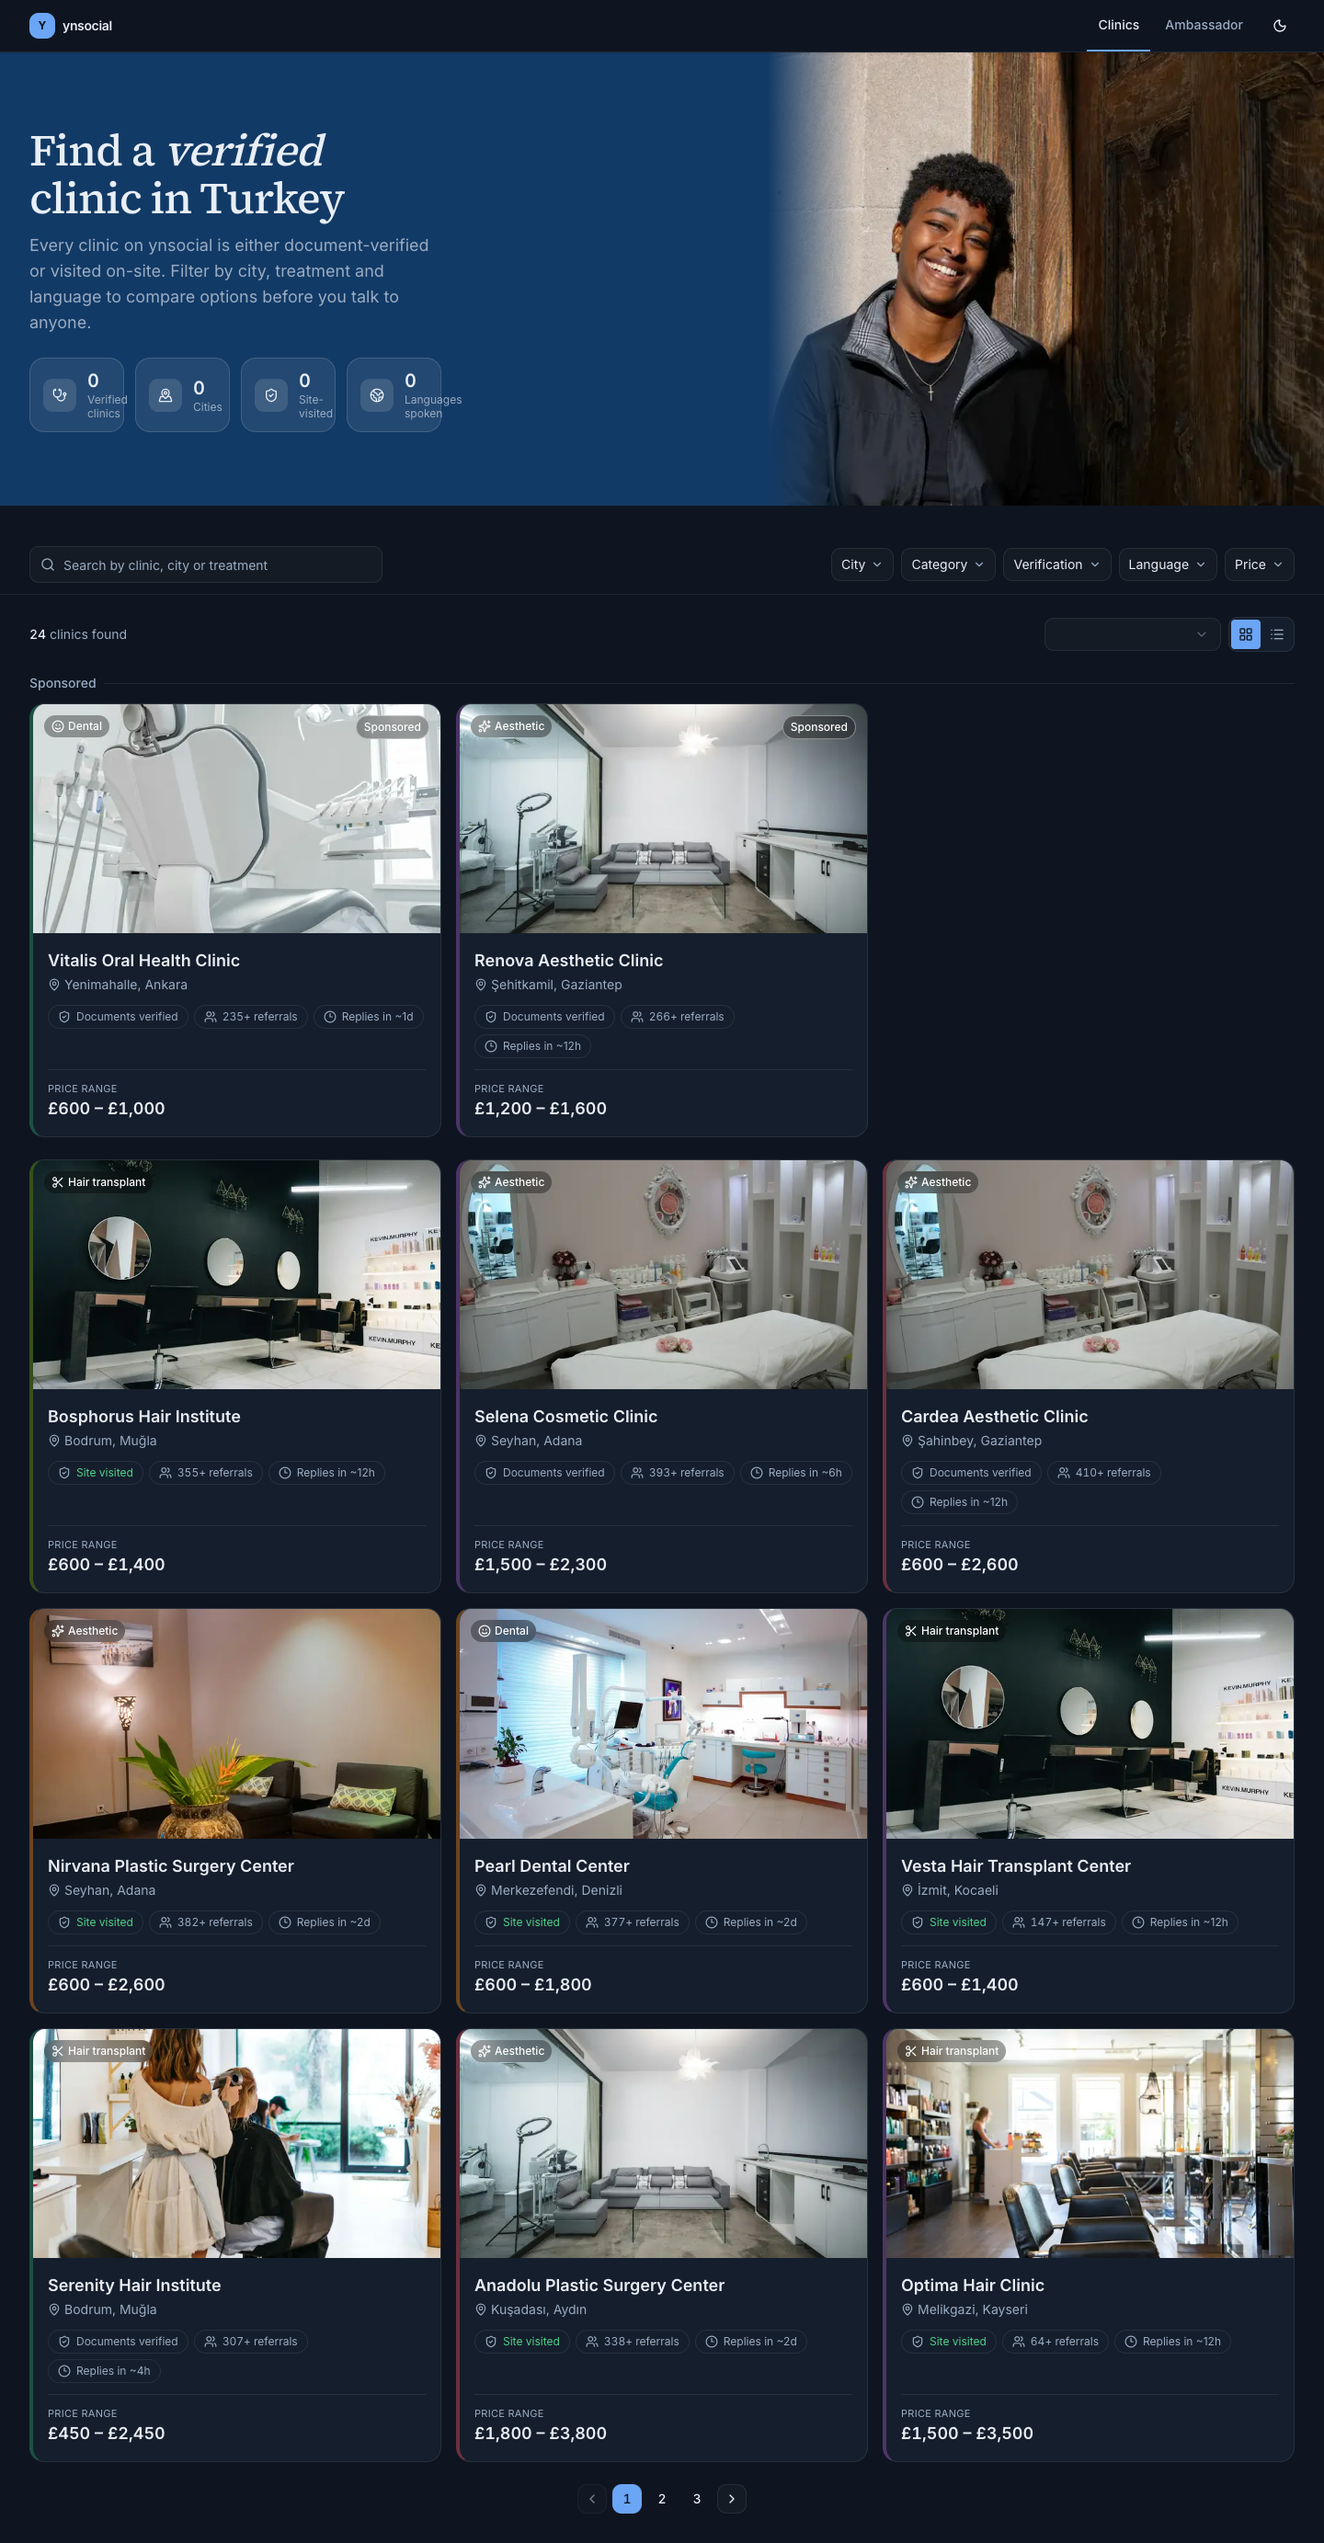
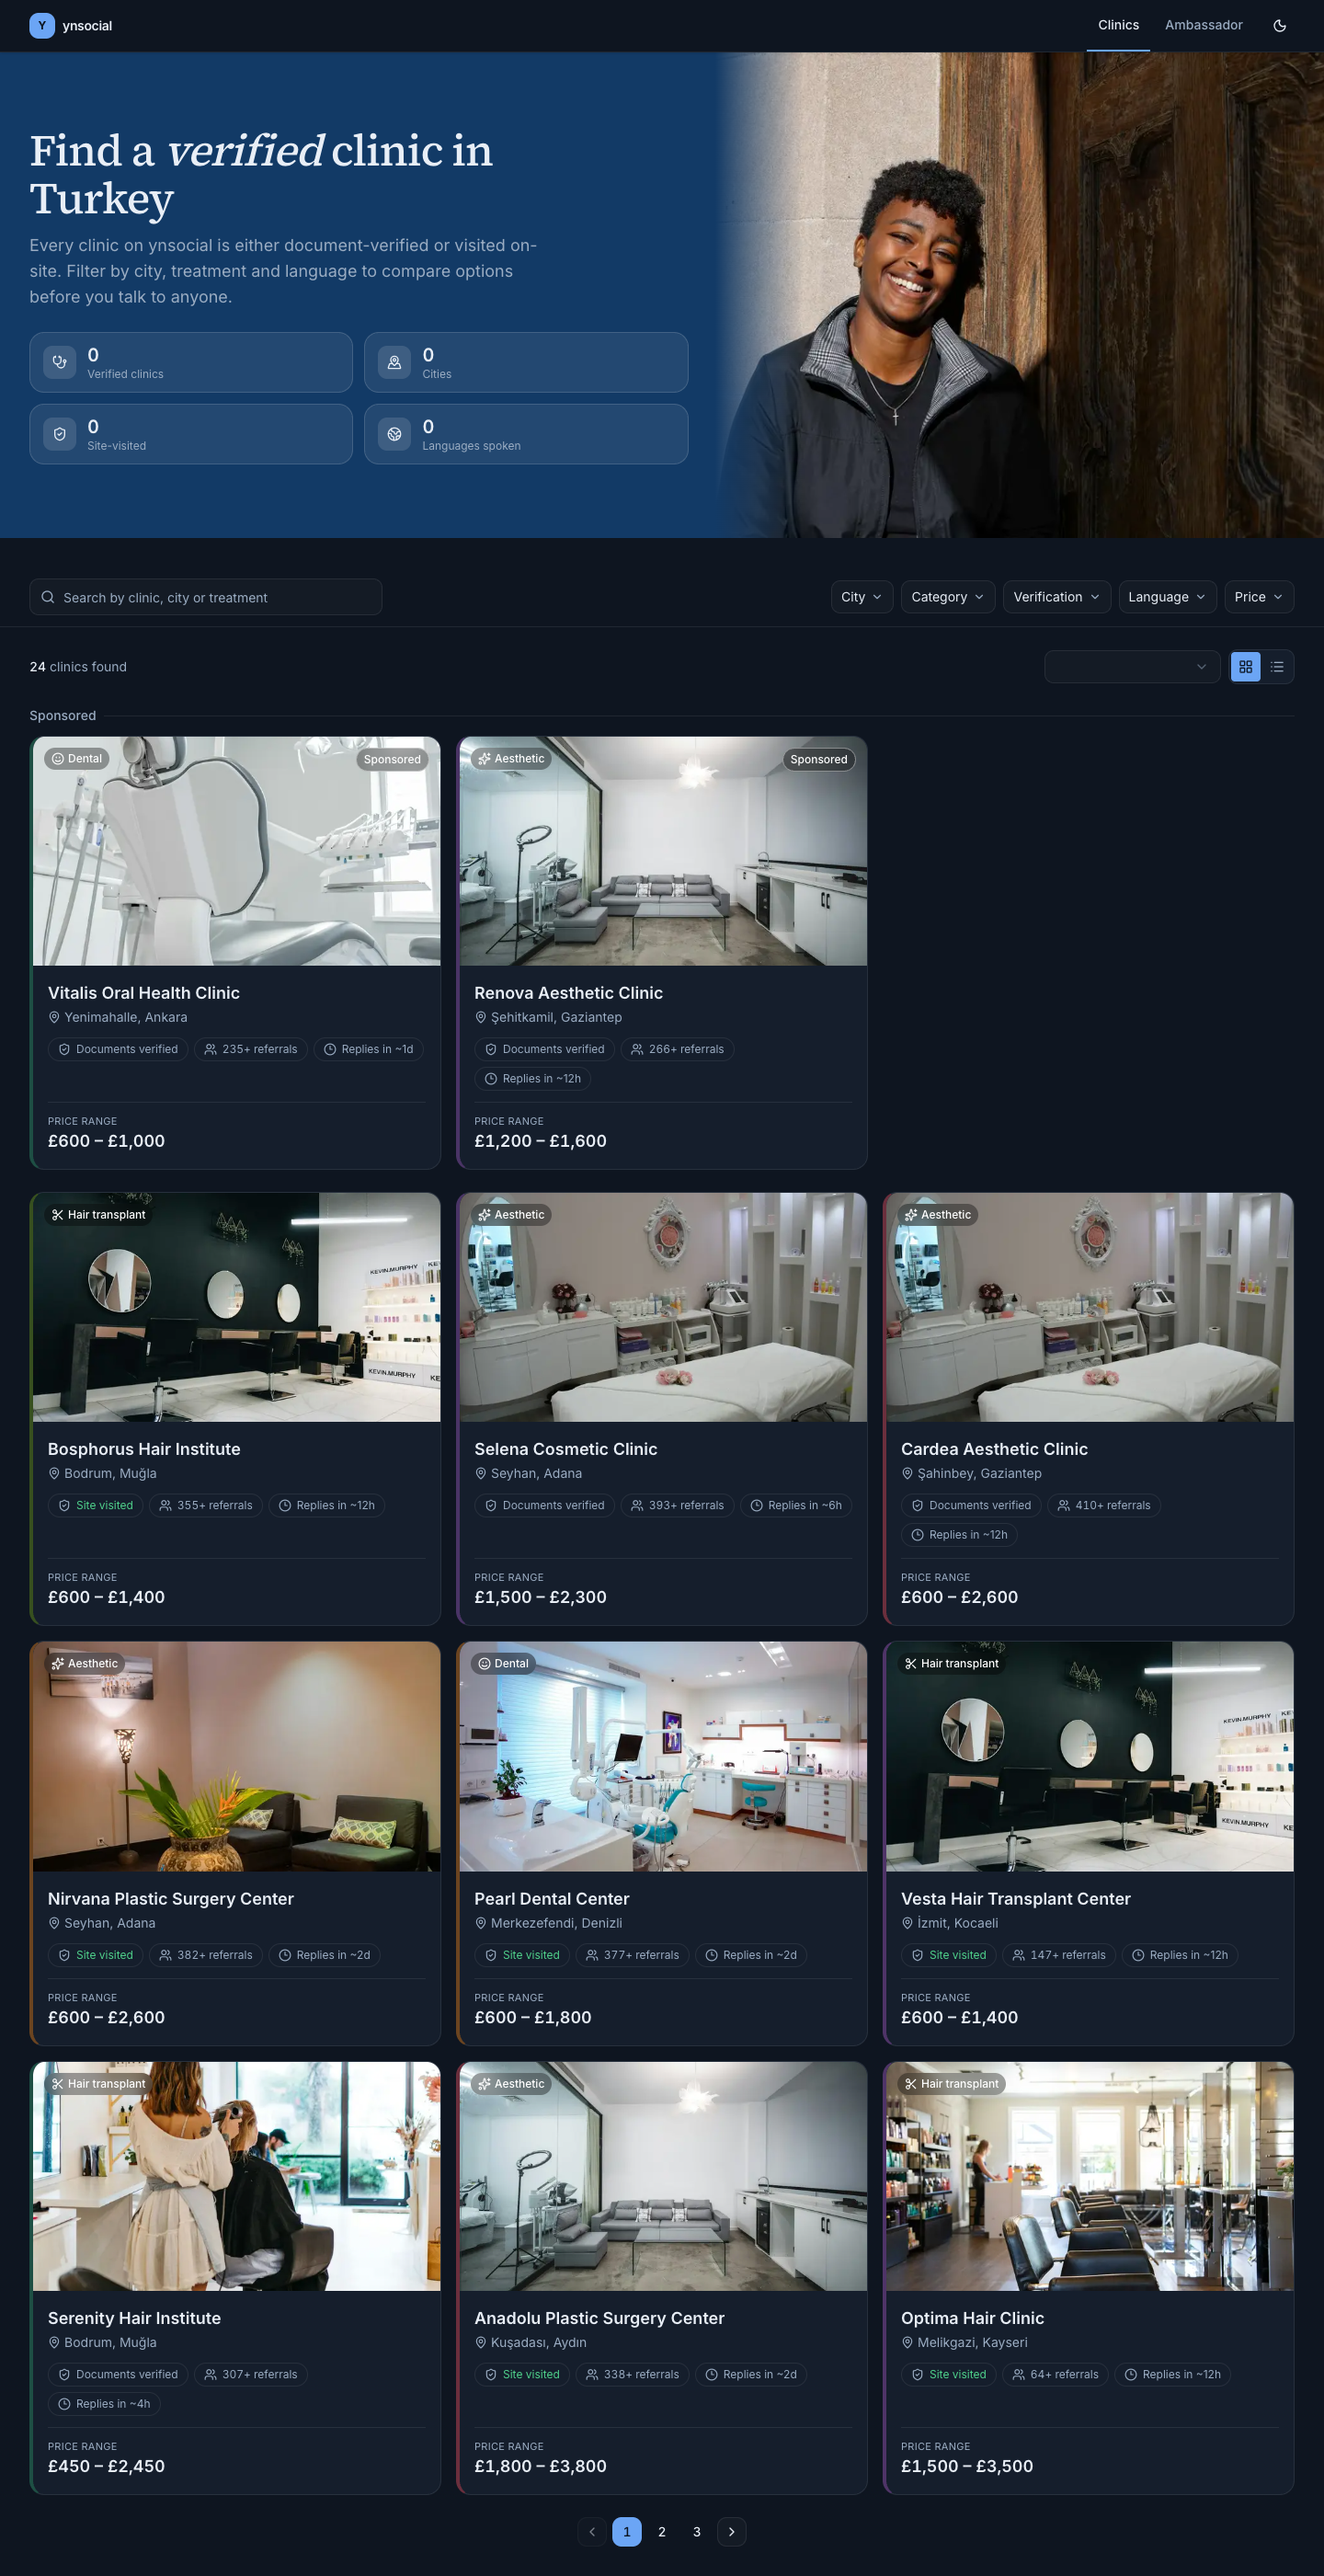
Fix cramped stat tiles and enlarge the hero photo to 46vw
The photo grew to 46% of viewport width on request; the copy column had
a fixed max-w-md next to it, squeezing the 4-tile stat grid into ~450px
regardless of screen size and wrapping half the labels onto two lines.
Root cause wasn't the exact width available — any 4-across row sharing
space with a large photo eventually runs out of room. Stats are now a
fixed 2x2 grid on all screen sizes (not 2x2-mobile/4-across-desktop), so
each tile keeps roughly double the width no matter how the split lands.

Changed region(s): [[0.0, 0.0, 1.0, 0.9638], [0.25, 0.0311, 0.3125, 0.0622], [0.3438, 0.0311, 0.375, 0.0622]]

diff --git a/src/app/clinics/page.tsx b/src/app/clinics/page.tsx
@@ -22,22 +22,28 @@ export default async function ClinicsPage() {
     <main className="flex w-full flex-col">
       <div className="hero-panel relative overflow-hidden">
         {/* Photo bleeds to the true edge of the section on desktop — a
-            floating rounded card here read as a widget, not a photo. */}
-        <div className="absolute inset-y-0 right-0 hidden w-[42%] lg:block">
+            floating rounded card here read as a widget, not a photo.
+            Sized off the viewport (not the 1440px content container) so
+            it keeps reaching the real edge on ultra-wide screens too. */}
+        <div className="absolute inset-y-0 right-0 hidden w-[46vw] lg:block">
           <Image
             src="/images/hero-clinics.jpg"
             alt=""
             fill
             priority
-            sizes="42vw"
+            sizes="46vw"
             className="object-cover"
           />
           <div className="hero-photo-fade absolute inset-y-0 left-0 w-24" aria-hidden="true" />
         </div>
 
-        <div className="relative mx-auto w-full page-container px-4 pb-8 pt-12 sm:px-5 sm:pb-10 lg:px-8 lg:py-20">
-          <div className="flex max-w-xl flex-col gap-6 lg:max-w-md">
-            <div className="space-y-3">
+        {/* The text column reserves space matching the photo's own width
+            (not a fixed max-width) — at wide viewports a fixed cap here
+            was squeezing the 4-tile stat grid into ~450px and forcing
+            every label to wrap onto two lines. */}
+        <div className="relative mx-auto w-full page-container px-4 pb-8 pt-12 sm:px-5 sm:pb-10 lg:py-20 lg:pl-8 lg:pr-[48vw]">
+          <div className="flex flex-col gap-6">
+            <div className="max-w-xl space-y-3">
               <h1 className="font-serif text-4xl font-medium tracking-tight text-hero-text sm:text-5xl">
                 Find a <em className="font-serif italic text-hero-text">verified</em> clinic in
                 Turkey

diff --git a/src/components/clinics/trust-stats.tsx b/src/components/clinics/trust-stats.tsx
@@ -9,7 +9,12 @@ import type { Clinic } from "@/types/clinic"
  *  hero's solid-color background (translucent white tiles), since that's
  *  the only place this renders. Each stat is its own bordered unit rather
  *  than a row split by dividers, so it holds up at any width instead of
- *  wrapping into an orphaned, half-separated line. */
+ *  wrapping into an orphaned, half-separated line.
+ *
+ *  Always a 2×2 grid, even on desktop: the hero's copy column shares its
+ *  width with a large photo, so a 4-across row never has enough room for
+ *  "Verified clinics" or "Languages spoken" to sit on one line — 2×2 gives
+ *  every tile roughly double the width regardless of how that split lands. */
 export function TrustStats({ clinics }: { clinics: Clinic[] }) {
   const cities = new Set(clinics.map((c) => c.city)).size
   const languages = new Set(clinics.flatMap((c) => c.languages)).size
@@ -23,7 +28,7 @@ export function TrustStats({ clinics }: { clinics: Clinic[] }) {
   ]
 
   return (
-    <dl className="grid grid-cols-2 gap-3 sm:grid-cols-4">
+    <dl className="grid grid-cols-2 gap-3">
       {stats.map((stat) => (
         <div
           key={stat.label}

diff --git a/README.md b/README.md
@@ -344,6 +344,17 @@ below the copy on mobile rather than disappearing. Small change, but it's
 the difference between "a photo was added" and "the section was designed
 around a photo."
 
+That full-bleed photo grew to 46% of the viewport width on request (up
+from 42%), which surfaced a real layout bug: the copy column next to it
+had a fixed `max-w-md`, so the 4-stat grid was squeezed into ~450px no
+matter how wide the screen got, and two of the four labels ("Verified
+clinics", "Languages spoken") wrapped onto a second line every time. The
+fix wasn't a wider cap — any 4-across row sharing space with a large photo
+runs out of room eventually. The stat grid is now a fixed 2×2 on every
+screen size, not 2×2-on-mobile-4-across-on-desktop, so each tile gets
+roughly double the width regardless of exactly how the hero's column
+split lands.
+
 ## How the two pages stay one system while looking different
 
 `/clinics` is the marketing face: generous whitespace, a serif display
